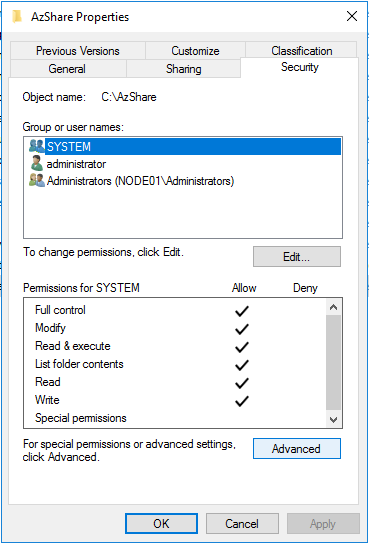
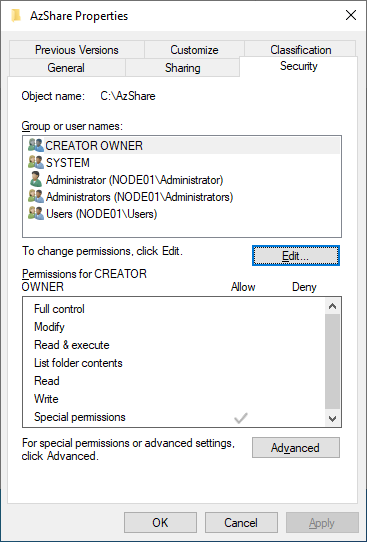
Refine description about share permissions.

Changed region(s): [[0.0, 0.0, 1.0, 1.0], [0.7193, 0.0886, 0.9292, 0.1476], [0.4496, 0.0886, 0.5995, 0.1476]]

diff --git a/TestSuites/FileServer/docs/FileServerUserGuide.md b/TestSuites/FileServer/docs/FileServerUserGuide.md
@@ -1167,7 +1167,7 @@ To set NTFS permissions on the shared **AzShare** folder that you created by fol
 
   ![](./image/FileServerUserGuide/image8.png)
 
-  Figure 12. Specifying advanced security settings for the **AzShare** share
+  Figure 12. Specifying advanced security settings for the **AzShare** folder
 
 #### <a name="5.3.3"/> 5.3.3 Set Share Permissions
 
